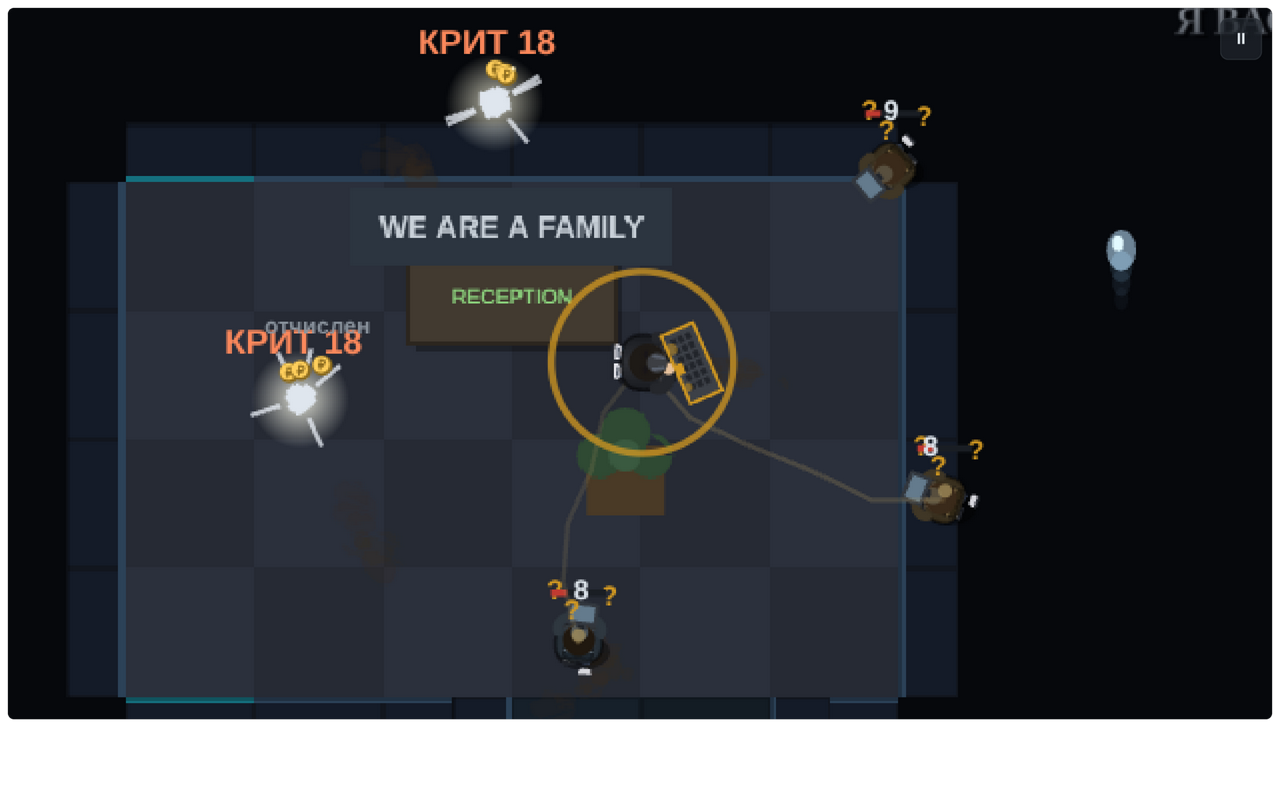
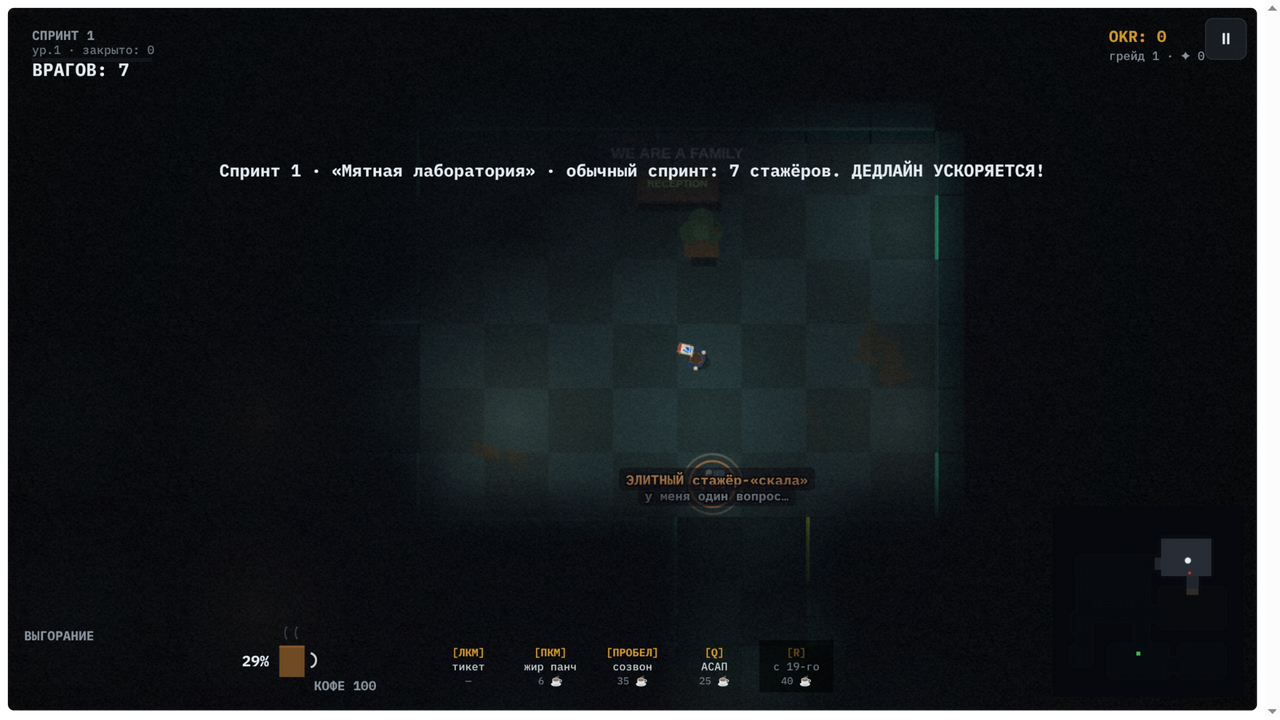
production docs: README rewrite (campaign, ults, progression, controls), fresh screenshots with new branding (v30)

diff --git a/index.html b/index.html
@@ -164,21 +164,21 @@
 </div>
 </div>
 
-<link rel="stylesheet" href="style.css?v=29">
+<link rel="stylesheet" href="style.css?v=30">
 <script src="https://unpkg.com/peerjs@1.5.4/dist/peerjs.min.js"></script>
-<script src="src/utils.js?v=29"></script>
-<script src="src/data.js?v=29"></script>
-<script src="src/audio.js?v=29"></script>
-<script src="src/music.js?v=29"></script>
-<script src="src/map.js?v=29"></script>
-<script src="src/chaos.js?v=29"></script>
-<script src="src/combat.js?v=29"></script>
-<script src="src/abilities.js?v=29"></script>
-<script src="src/sim.js?v=29"></script>
-<script src="src/guest.js?v=29"></script>
-<script src="src/sprites.js?v=29"></script>
-<script src="src/render.js?v=29"></script>
-<script src="src/input.js?v=29"></script>
-<script src="src/ui.js?v=29"></script>
-<script src="src/net.js?v=29"></script>
-<script src="src/main.js?v=29"></script>
+<script src="src/utils.js?v=30"></script>
+<script src="src/data.js?v=30"></script>
+<script src="src/audio.js?v=30"></script>
+<script src="src/music.js?v=30"></script>
+<script src="src/map.js?v=30"></script>
+<script src="src/chaos.js?v=30"></script>
+<script src="src/combat.js?v=30"></script>
+<script src="src/abilities.js?v=30"></script>
+<script src="src/sim.js?v=30"></script>
+<script src="src/guest.js?v=30"></script>
+<script src="src/sprites.js?v=30"></script>
+<script src="src/render.js?v=30"></script>
+<script src="src/input.js?v=30"></script>
+<script src="src/ui.js?v=30"></script>
+<script src="src/net.js?v=30"></script>
+<script src="src/main.js?v=30"></script>
